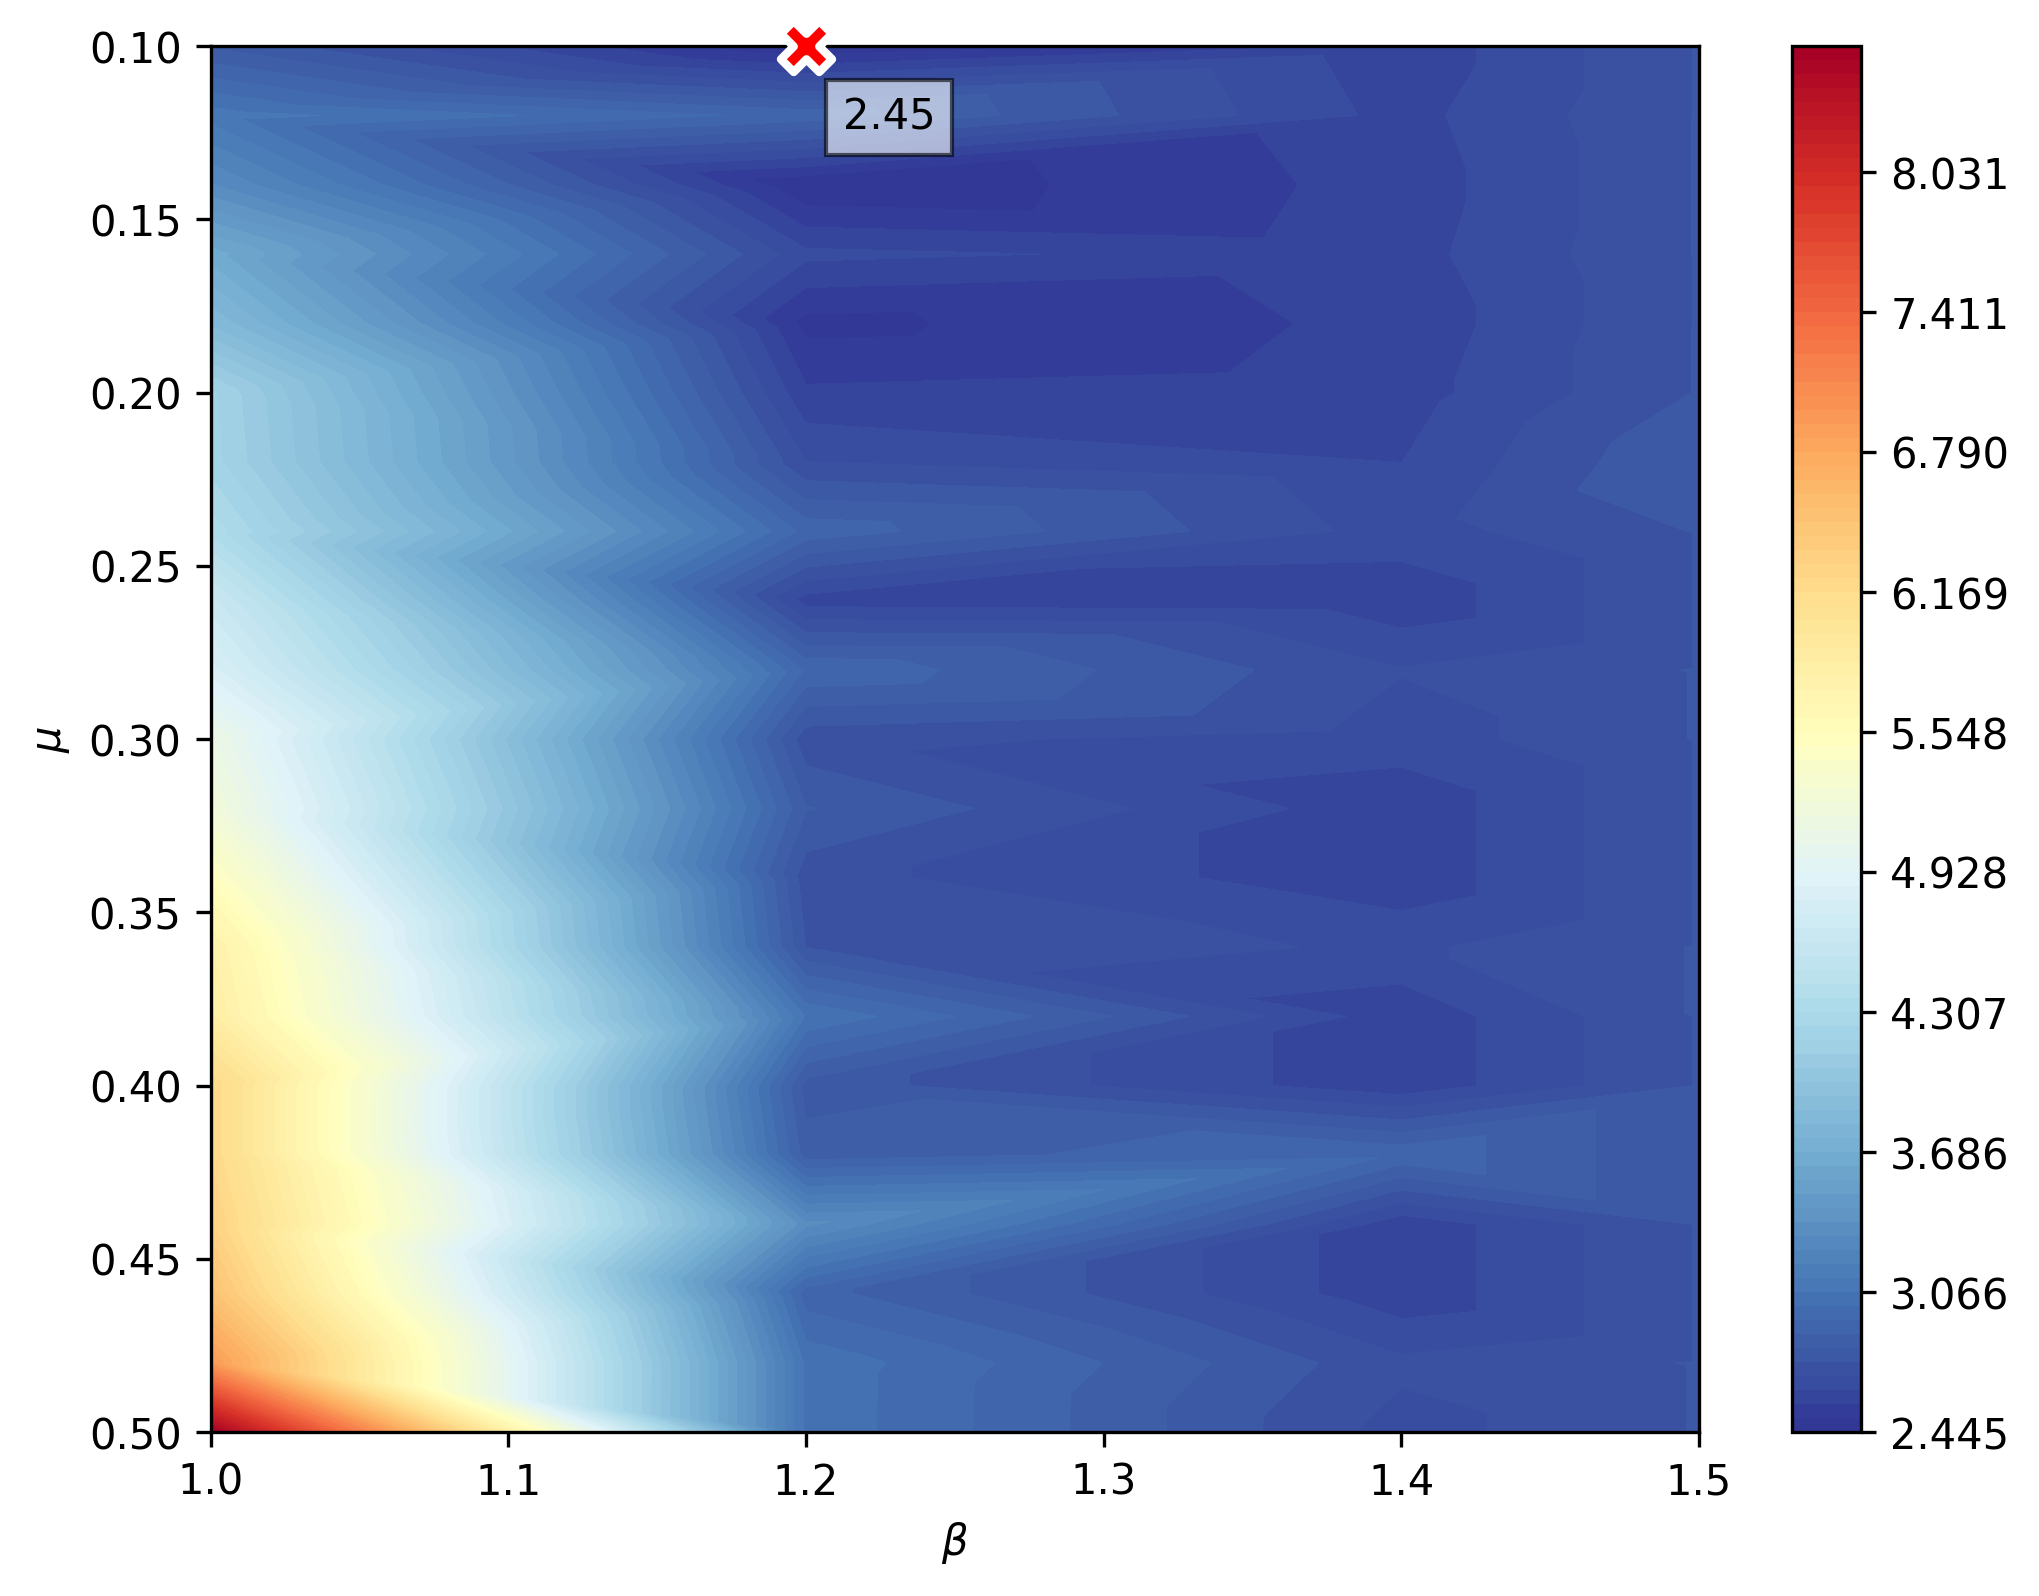
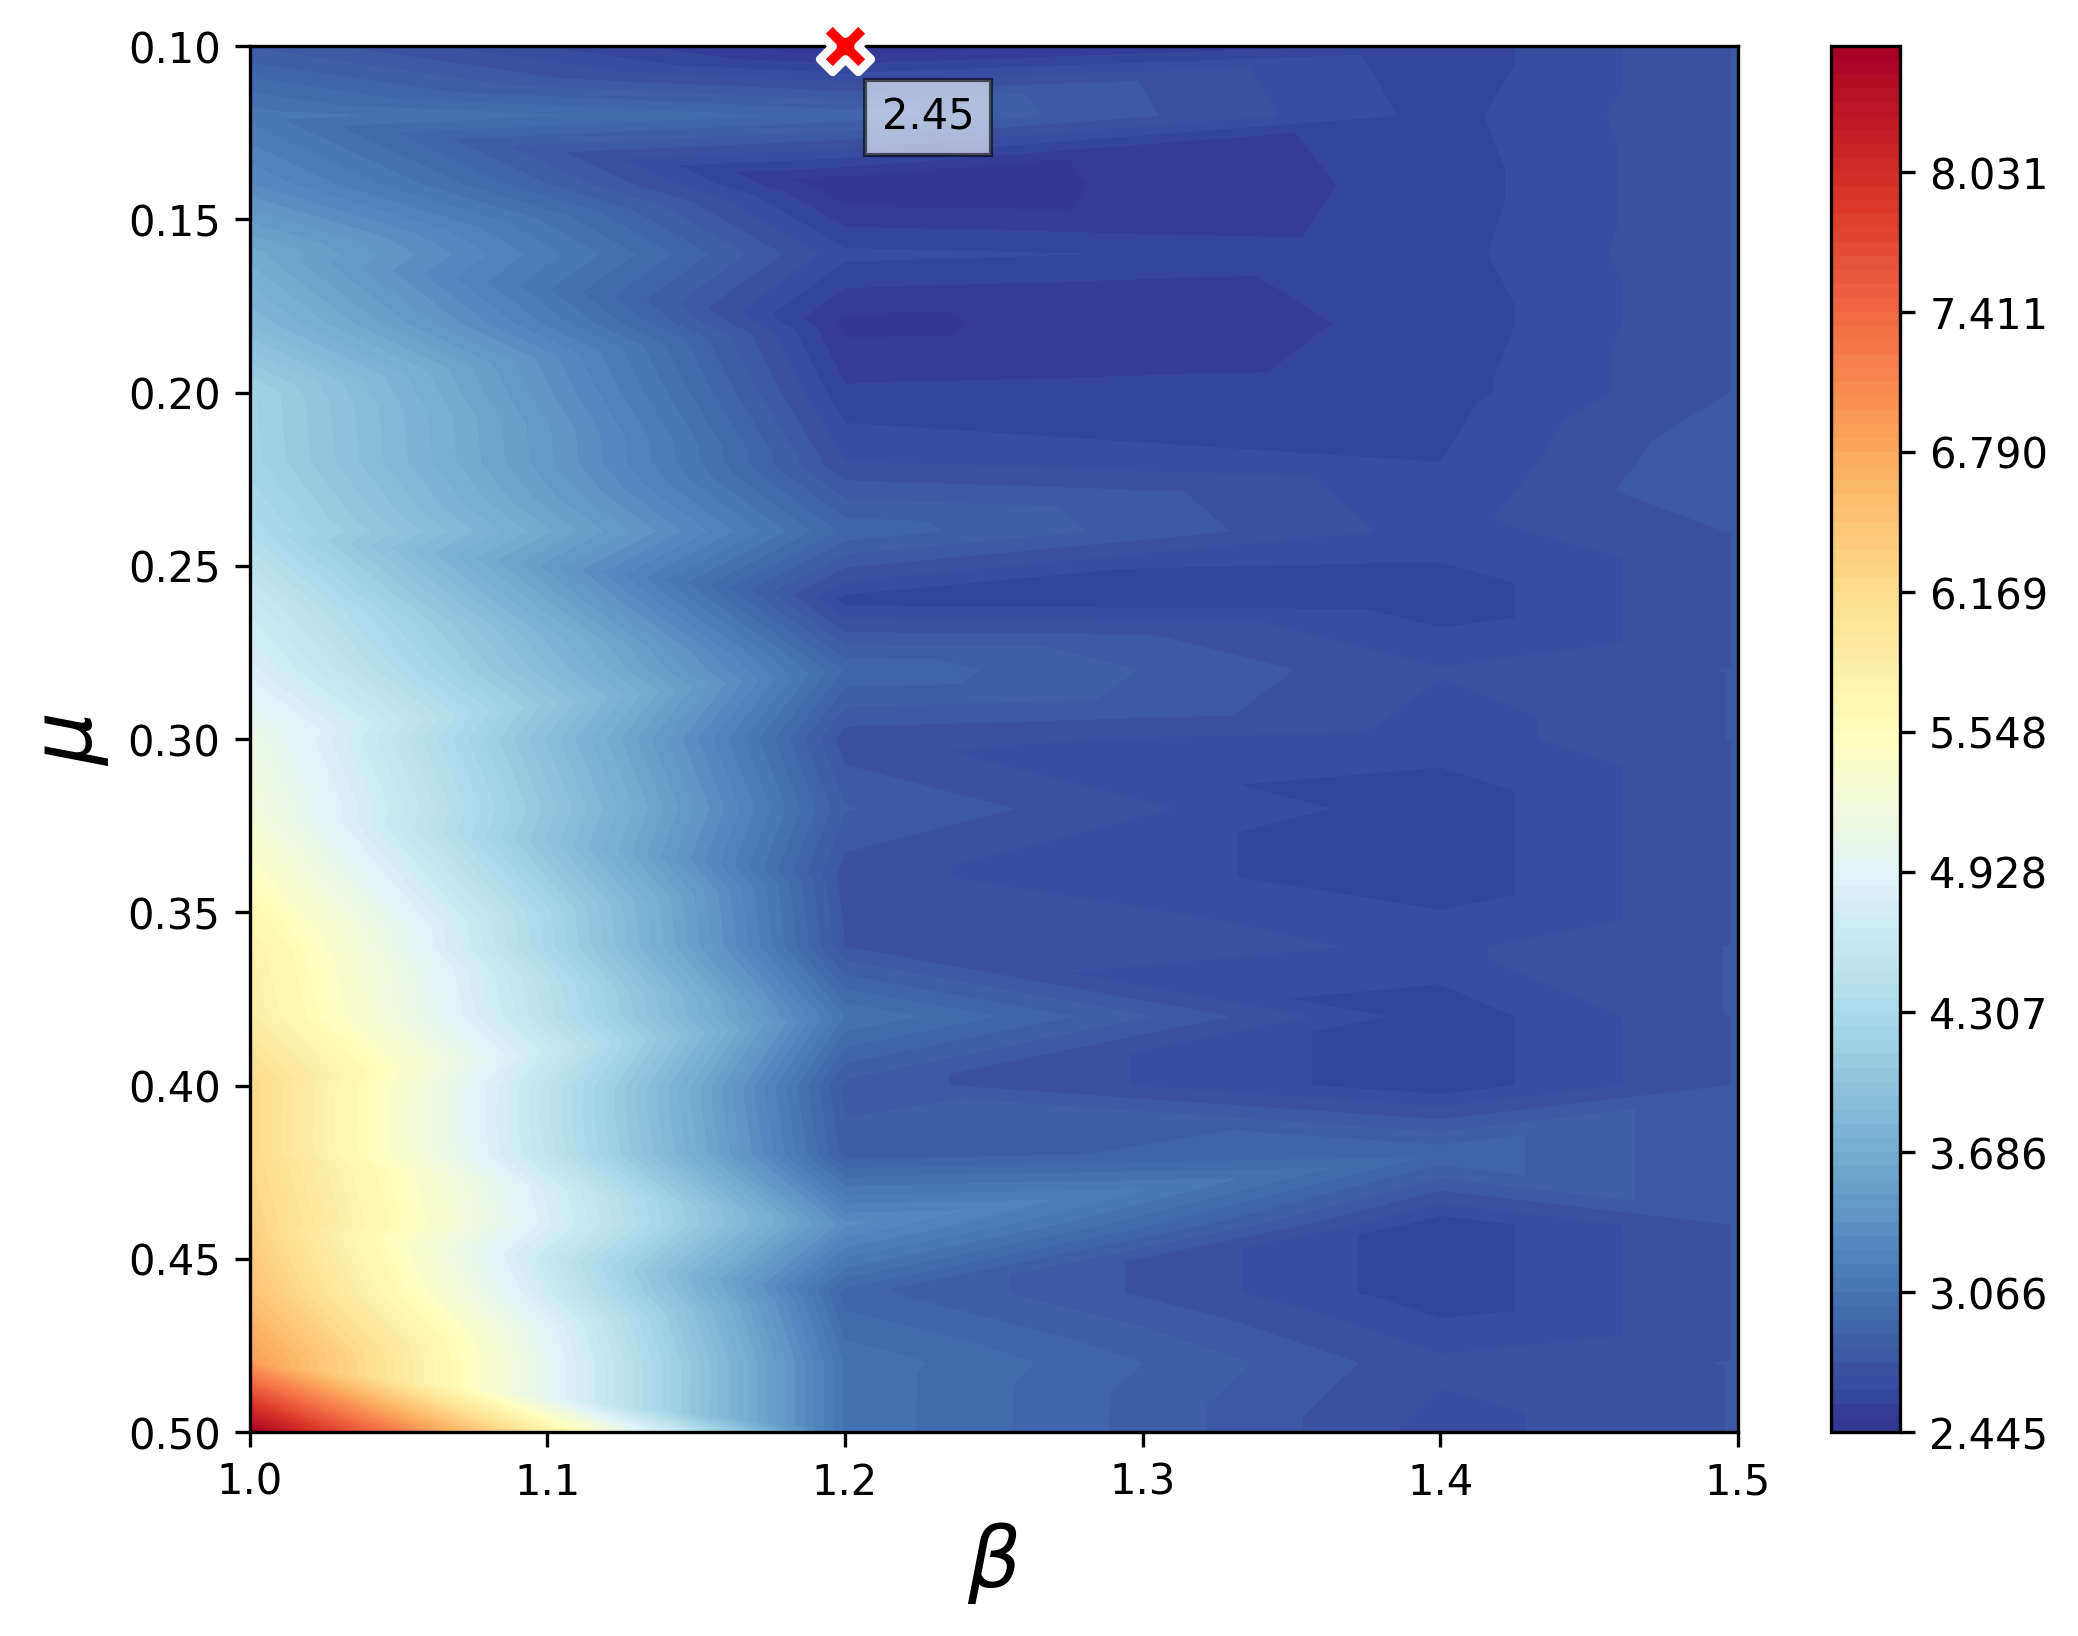
changes

diff --git a/cont_plots.py b/cont_plots.py
@@ -3,11 +3,11 @@ import pandas as pd
 import matplotlib.pyplot as plt
 import os
 
-csv_file = r'C:\Thesis\Fresh pull\Onlineschedulingalgo_assorted_1\Results_mast\Heat_Maps\General\Generate_Avg_Max.csv'
+csv_file = r'C:\Thesis\Fresh pull\Onlineschedulingalgo_assorted_1\Results_mtpa\Heat_Maps\General\Generate_Avg_Max.csv'
 data = pd.read_csv(csv_file)
-save_directory = r'C:\Thesis\Fresh pull\Onlineschedulingalgo_assorted_1\Results_mast\Contour_Plots\General'
+save_directory = r'C:\Thesis\Fresh pull\Onlineschedulingalgo_assorted_1\Results_mtpa\Contour_Plots\General'
 os.makedirs(save_directory, exist_ok=True)
-x = data['beta']
+x = data['gamma']
 y = data['mu']
 z = data['max']
 
@@ -17,18 +17,18 @@ levels = np.linspace(min_val, max_val, 100)  #fine-grained levels to enhance col
 plt.figure(figsize=(8, 6))
 contour = plt.tricontourf(x, y, z, levels=levels, cmap='RdYlBu_r') #tricontourf is for scattered data ,contourf is for regular data
 plt.colorbar(contour)
-plt.xlabel(r'$\beta$', fontweight='bold')
-plt.ylabel(r'$\mu$', fontweight='bold')
+plt.xlabel(r'$\gamma$', fontweight='bold',fontsize=20)
+plt.ylabel(r'$\mu$', fontweight='bold',fontsize=20)
 plt.gca().invert_yaxis()
 
 # === Code to mark optimal point ===
 min_index = np.nanargmin(z)
-min_beta = x.iloc[min_index]
+min_gamma = x.iloc[min_index]
 min_mu = y.iloc[min_index]
 min_value = z.iloc[min_index]
 
 # Plot the red X marker
-plt.scatter(min_beta, min_mu, color='red', s=150, marker='X',
+plt.scatter(min_gamma, min_mu, color='red', s=150, marker='X',
             edgecolors='white', linewidth=2, clip_on=False,
             zorder=3, label=f"Min: {min_value:.2f}")
 
@@ -45,9 +45,9 @@ x_offset = 20
 y_offset = -20
 
 # Adjust offsets based on proximity to edges to avoid overlap and stay inside
-if (min_beta - x_min) < x_margin:
+if (min_gamma - x_min) < x_margin:
     x_offset = 20  # move right
-elif (x_max - min_beta) < x_margin:
+elif (x_max - min_gamma) < x_margin:
     x_offset = -20  # move left
 
 if (y_max - min_mu) < y_margin:
@@ -56,7 +56,7 @@ elif (min_mu - y_min) < y_margin:
     y_offset = -20  # move up
 
 # Annotate the value with adjusted offsets
-plt.annotate(f"{min_value:.2f}", (min_beta, min_mu),
+plt.annotate(f"{min_value:.2f}", (min_gamma, min_mu),
              textcoords="offset points", xytext=(x_offset, y_offset), ha='center',
              fontsize=10, color='black',
              bbox=dict(facecolor='white', alpha=0.6))
